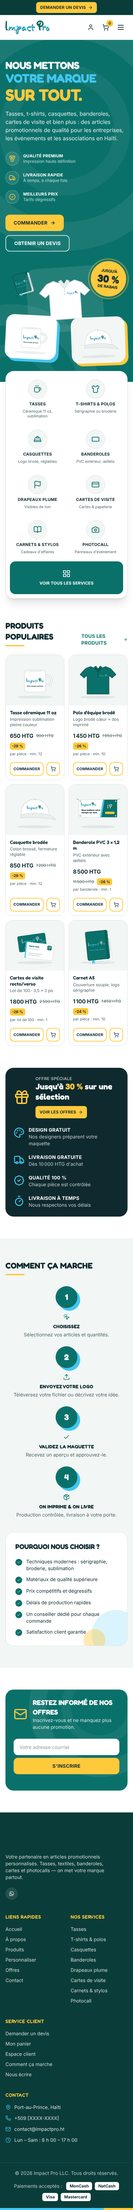
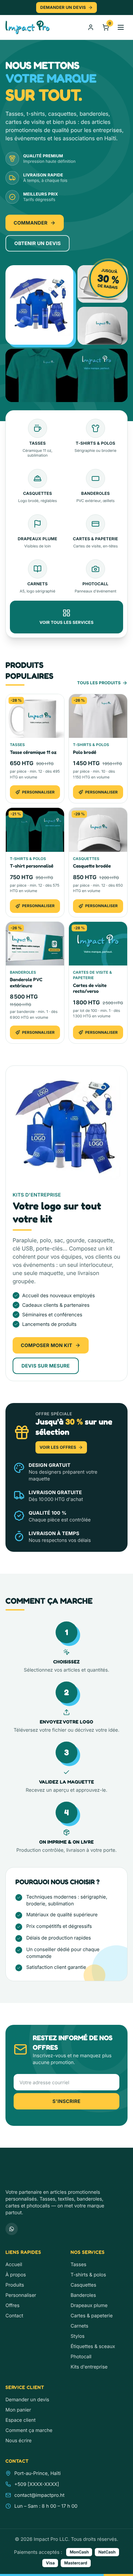
docs: customize & order status, new screenshots
Claude-Session: https://claude.ai/code/session_01FUUk4RKLo5jqm7PrvG84qb

diff --git a/CLAUDE.md b/CLAUDE.md
@@ -128,5 +128,6 @@ At the end of each phase: run tests, verify migrations, verify API, fix errors, 
 ## 17. Status
 - **Phase 1 — done** (2026-11-26): monorepo (pnpm + Turbo), docs/ (architecture, ERD, API map, roadmap, security, brand), API foundation (`apps/api`, port 4000: env validation, health, Swagger, envelope, throttling, Prisma schema v1 + init migration + seed, concurrency-safe inventory reserve with tests), infra/docker-compose.yml, CI workflow, storefront (`apps/storefront`, port 3000) homepage + pages in brand with Playwright smoke tests. Screenshots in docs/screenshots/.
 - Not yet verified: Docker stack boot, API Docker image build, CI run on GitHub.
-- Storefront catalog (`src/lib/catalog.ts`) and form endpoints are dev placeholders until Phase 3 wires them to the API. Phone/email/prices are placeholders.
+- Customize & order (2026-11-26): real product photos (packages/brand/photos), logo upload API (`/api/v1/uploads/logos`), public catalog API (`/api/v1/catalog/products`), custom orders + tracking (`/api/v1/custom-orders`), storefront customizer `/personnaliser/[slug]` with live logo preview, cart, `/commande`, confirmation, `/suivi`. Validation errors are 422 everywhere.
+- Placeholders: HTG prices/tiers in seed, phone, email. No T-shirt photo yet (uses polo photos). S3/MinIO upload path untested; newsletter/contact endpoints still don't persist.
 - **Next: Phase 2** — authentication & organizations.
